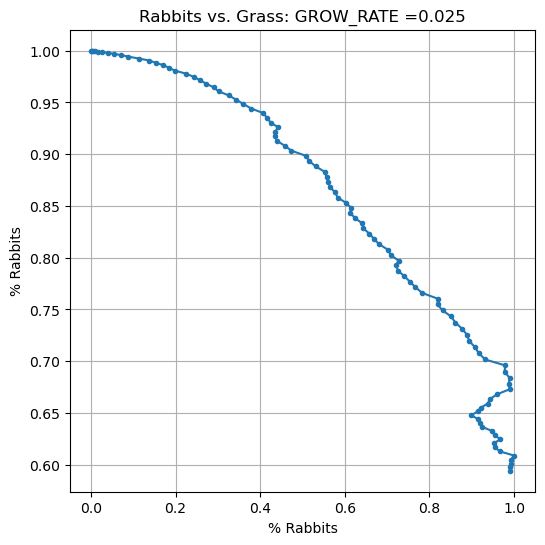
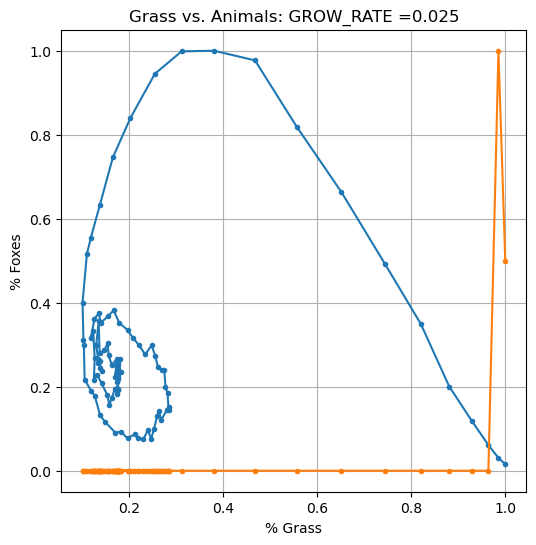
m

diff --git a/ic_alife.py b/ic_alife.py
@@ -67,19 +67,18 @@ class Animal:
             self.y = min(self.fsize-1, max(0, (self.y + rnd.choice(move_list))))
 
     def survive(self):
-        # return whether the animal will survive that cycle
-        self.cycle += 1
 
         # if the animal ate that cycle, reset counter to 0
         if self.eaten > 0:
             self.cycle = 0
             return True
-
-        # if the animal has gone too many cycles without eating, return "False"
-        if self.cycle <= self.starve:
-            return True
         else:
-            return False
+            # if the animal has gone too many cycles without eating, return "False"
+            if self.cycle <= self.starve:
+                self.cycle += 1
+                return True
+            else:
+                return False
         
 
 
@@ -92,7 +91,6 @@ class Field:
         and initially no rabbits """
         self.animals = []
         self.nrabbits = []
-        # self.nfoxes = []
         self.nfoxes = []
         self.ngrass = []
         self.size = size
@@ -110,9 +108,6 @@ class Field:
 
     def eat(self):
         """ Animals eat (if they find grass where they are) """
-        # for rabbit in self.rabbits:
-        #     rabbit.eat(self.field[rabbit.x, rabbit.y])
-        #     self.field[rabbit.x, rabbit.y] = 0
         for animal in self.animals:
             # check pixel of field's current value
             if self.field[animal.x, animal.y] in animal.eats:
@@ -121,7 +116,6 @@ class Field:
 
     def survive(self):
         """ Rabbits who eat some grass live to eat another day """
-        # self.rabbits = [r for r in self.rabbits if r.eaten > 0]
         self.animals = [r for r in self.animals if r.survive()]
 
     def reproduce(self):
@@ -170,7 +164,6 @@ class Field:
 
         for r in self.animals:
             num_dict[r.id] += [r]
-
         return num_dict
         # return len([r for r in self.rabbits if r.id == 2])
 
@@ -191,35 +184,40 @@ class Field:
         plt.xlabel("# Rabbits")
         plt.ylabel("# Grass")
 
-        xs = self.nrabbits[:]
+        yr = self.nrabbits[:]
         if showPercentage:
-            maxrabbit = max(xs)
-            xs = [x / maxrabbit for x in xs]
-            plt.xlabel("% Rabbits")
-
-        # xf = self.nfoxes[:]
-        # if showPercentage:
-        #     maxfox = max(xf)
-        #     xf = [x / maxfox for x in xf]
-        #     plt.xlabel("% Foxes")
-
-        ys = self.ngrass[:]
-        if showPercentage:
-            maxgrass = max(ys)
-            ys = [y / maxgrass for y in ys]
+            maxrabbit = max(yr)
+            yr = [y / maxrabbit for y in yr]
             plt.ylabel("% Rabbits")
 
+        yf = self.nfoxes[:]
+        if showPercentage:
+            maxfox = max(yf)
+            yf = [y / maxfox for y in yf]
+            plt.ylabel("% Foxes")
+
+        xs = self.ngrass[:]
+        if showPercentage:
+            maxgrass = max(xs)
+            xs = [x / maxgrass for x in xs]
+            plt.xlabel("% Grass")
+
         if showTrack:
-            plt.plot(xs, ys, marker=marker)
-            #plt.plot(xf, ys, marker=marker)
+            # plt.plot(xs, ys, marker=marker)
+            # plt.plot(xf, ys, marker=marker)
+            plt.plot(xs, yr, marker=marker, label="Rabbits")
+            plt.plot(xs, yf, marker=marker, label="Foxes")
         else:
-            plt.scatter(xs, ys, marker=marker)
+            # plt.scatter(xs, ys, marker=marker)
+            plt.scatter(xs, yr, marker=marker, label="Rabbits")
+            plt.scatter(xs, yf, marker=marker, label="Foxes")
 
         plt.grid()
 
-        plt.title("Rabbits vs. Grass: GROW_RATE =" + str(GRASS_RATE))
+        plt.title("Grass vs. Animals: GROW_RATE =" + str(GRASS_RATE))
         plt.savefig("history.png", bbox_inches='tight')
         plt.show()
+
 
     def history2(self):
         xs = self.nrabbits[:]
@@ -263,8 +261,8 @@ def animate(i, field, im):
 # total = np.maximum(field, np.maximum(rabbits, foxes))
 # print(field, "\n\n", rabbits, "\n\n", foxes, "\n\n", total)
 
-# clist = ['white', 'red', 'blue', 'green']
-clist = ['white', 'green', 'blue', 'red']
+clist = ['white', 'red', 'blue', 'green']
+# clist = ['red', 'purple', 'green']
 my_cmap = colors.ListedColormap(clist)
 
 # plt.imshow(total, cmap=my_cmap, interpolation='none')
@@ -305,12 +303,11 @@ def main():
     #     field.add_rabbit(Rabbit(3, 1, 1, fox_k, (2,), fsize))
 
     # add rabbit
-
-    for _ in range(1):
+    for _ in range(20):
         field.add_animal(Animal(2, 1, 1, 1, (1,), fsize))
 
     # add fox
-    for _ in range(3):
+    for _ in range(100):
         field.add_animal(Animal(3, 1, 2, 1, (2,), fsize))
 
     array = np.ones(shape=(fsize, fsize), dtype=int)
